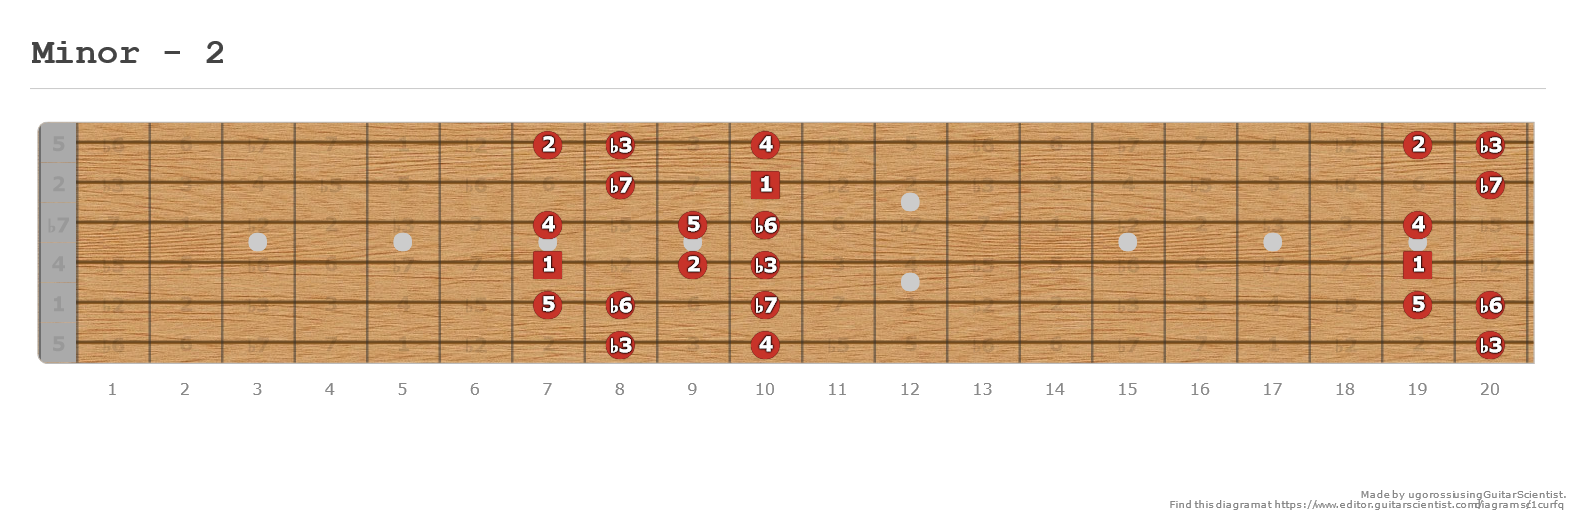
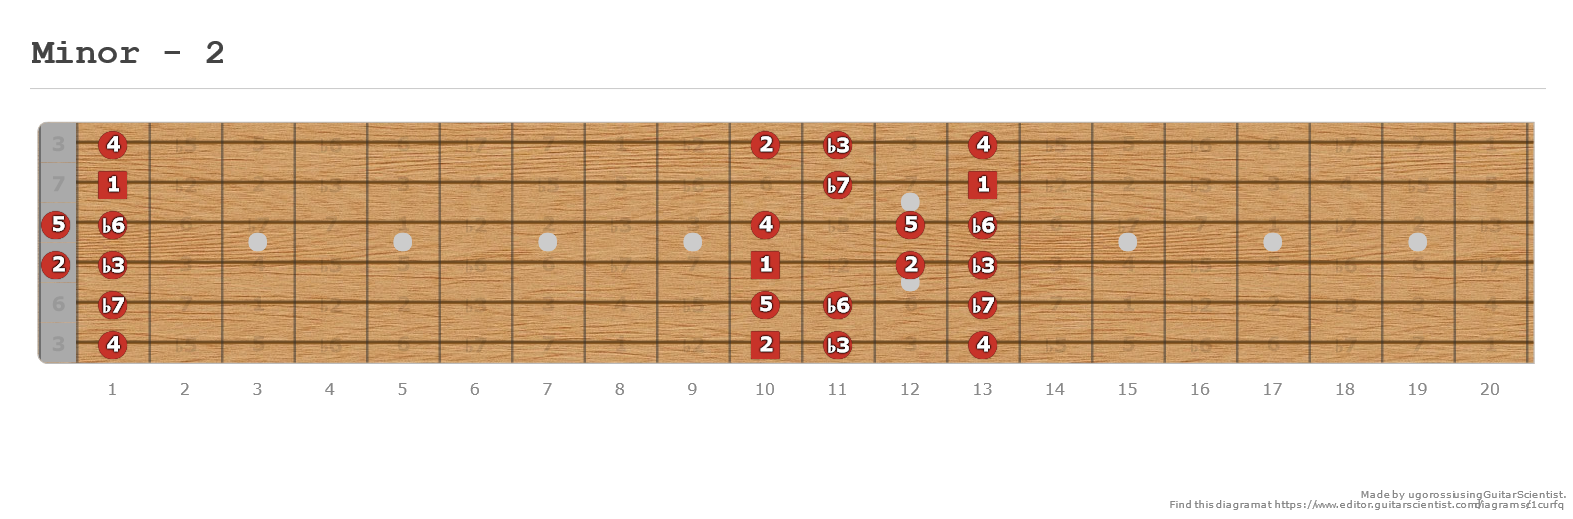
Some more scales

diff --git a/js/app.js b/js/app.js
@@ -2,10 +2,7 @@ scale = "Minor Pentatonic";
 pos = "1";
 timer = false;
 
-$(".position_select").click(function() {
-    timer = true;
-    setTimeout(resetTimer, 5000)
-});
+
 
 
 function resetTimer() {
@@ -14,40 +11,38 @@ function resetTimer() {
 
 function showscale(s) {
     scale = s;
-
-    update();
-
+    update(pos);
 }
 
-function update() {
+function update(n) {
 
-    im = "./images/" + scale + " - " + pos + " - [Made at Guitarscientist.com].png";
+    im = "./images/" + scale + " - " + n + " - [Made at Guitarscientist.com].png";
     $('#fretboard').attr('src', im);
     $('#1').removeClass('selected');
     $('#2').removeClass('selected');
     $('#3').removeClass('selected');
     $('#4').removeClass('selected');
     $('#5').removeClass('selected');
-    if (pos == 1) {
+    if (n == 1) {
         // $('#1').removeClass('default');
         $('#1').addClass('selected');
     }
-    if (pos == 2) {
+    if (n == 2) {
         // $('#2').removeClass('default');
         $('#2').addClass('selected');
     }
 
-    if (pos == 3) {
+    if (n == 3) {
         // $('#3').removeClass('default');
         $('#3').addClass('selected');
     }
 
-    if (pos == 4) {
+    if (n == 4) {
         // $('#4').removeClass('default');
         $('#4').addClass('selected');
     }
 
-    if (pos == 5) {
+    if (n == 5) {
         // $('#5').removeClass('default');
         $('#5').addClass('selected');
     }
@@ -58,6 +53,16 @@ function update() {
     $('#Blues').removeClass('selected');
     $('#Major').removeClass('selected');
     $('#Minor').removeClass('selected');
+
+    $('#Lydian').removeClass('selected');
+    $('#Dorian').removeClass('selected');
+    $('#Phrygian').removeClass('selected');
+    $('#Mixolydian').removeClass('selected');
+
+    $('#Major7').removeClass('selected');
+    $('#Minor7').removeClass('selected');
+    $('#Dominant7').removeClass('selected');
+    $('#Diminished7').removeClass('selected');
 
 
     if (scale == "Minor Pentatonic") {
@@ -76,17 +81,36 @@ function update() {
         $('#Minor').addClass('selected');
     }
 
+    if (scale == "Lydian") {
+        $('#Lydian').addClass('selected');
+    }
+    if (scale == "Dorian") {
+        $('#Dorian').addClass('selected');
+    }
+    if (scale == "Phrygian") {
+        $('#Phrygian').addClass('selected');
+    }
+    if (scale == "Mixolydian") {
+        $('#Mixolydian').addClass('selected');
+    }
+
+    if (scale == "Major7") {
+        $('#Major7').addClass('selected');
+    }
+    if (scale == "Minor7") {
+        $('#Minor7').addClass('selected');
+    }
+    if (scale == "Dominant7") {
+        $('#Dominant7').addClass('selected');
+    }
+    if (scale == "Diminished7") {
+        $('#Diminished7').addClass('selected');
+    }
+
 }
 
 function show(n) {
-    if (!timer) {
-        pos = n;
 
-        update();
-    }
-
-
-
-
+    update(n);
 
 }

diff --git a/index.html b/index.html
@@ -23,11 +23,26 @@
         <button id="Minor_Pentatonic" class="selected" onclick="showscale('Minor Pentatonic')">Minor Pentatonic</button>
         <button id="Major_Pentatonic" class="" onclick="showscale('Major Pentatonic')">Major Pentatonic</button>
         <button id="Blues" class="" onclick="showscale('Blues')">Blues</button>
-        <button id="Major" class="" onclick="showscale('Major')">Major</button>
-        <button id="Minor" class="" onclick="showscale('Minor')">Minor</button>
+
+        <button id="Major" class="" onclick="showscale('Major')">Ionian</button>
+        <button id="Dorian" class="" onclick="showscale('Dorian')">Dorian</button>
+        <button id="Phrygian" class="" onclick="showscale('Phrygian')">Phrygian</button>
+        <button id="Lydian" class="" onclick="showscale('Lydian')">Lydian</button>
+        <button id="Mixolydian" class="" onclick="showscale('Mixolydian')">Mixolydian</button>
+        <button id="Minor" class="" onclick="showscale('Minor')">Aeolian</button>
+
 
     </div>
 
+    <div class="scales">
+        <button id="Major7" class="" onclick="showscale('Major7')">Major7</button>
+        <button id="Minor7" class="" onclick="showscale('Minor7')">Minor7</button>
+        <button id="Dominant7" class="" onclick="showscale('Dominant7')">Dominant7</button>
+        <button id="Diminished7" class="" onclick="showscale('Diminished7')">Diminished7</button>
+
+
+
+    </div>
 
 
     <div class="crop">
@@ -36,11 +51,11 @@
 
 
     <div class="control">
-        <button id="1" class="position_select selected" onmouseover="show(1)"> Pos 1</button>
-        <button id="2" class="position_select" onmouseover="show(2)"> Pos 2</button>
-        <button id="3" class="position_select" onmouseover="show(3)"> Pos 3</button>
-        <button id="4" class="position_select" onmouseover="show(4)"> Pos 4</button>
-        <button id="5" class="position_select" onmouseover="show(5)"> Pos 5</button>
+        <button id="1" class="position_select selected" onmouseover="show(1)" onclick="pos=1;show(1)"> Pos 1</button>
+        <button id="2" class="position_select" onmouseover="pos=2;show(2)"> Pos 2</button>
+        <button id="3" class="position_select" onmouseover="pos=3;show(3)"> Pos 3</button>
+        <button id="4" class="position_select" onmouseover="pos=4;show(4)"> Pos 4</button>
+        <button id="5" class="position_select" onmouseover="pos=5;show(5)"> Pos 5</button>
     </div>
 </body>
 

diff --git a/styles/style.css b/styles/style.css
@@ -36,7 +36,7 @@
     margin: 3px;
     padding: 0.4em;
     font-size: 1.4em;
-    height: 18px;
+    height: 50px;
 }
 
 button {
